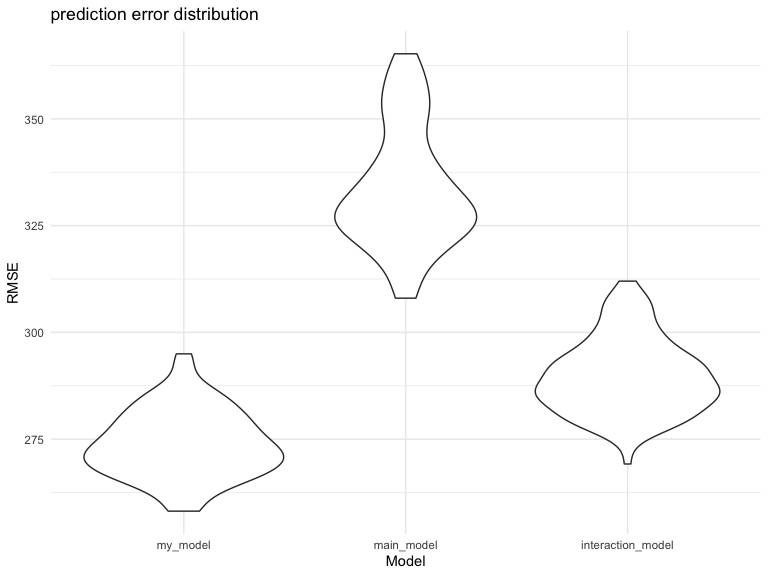
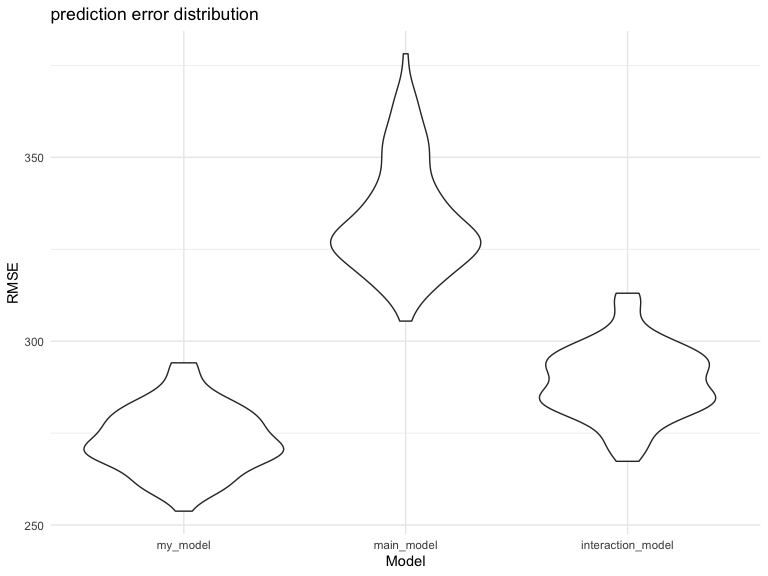
Q2 added estimate distribution

diff --git a/p8105_hw6_xf2226.md b/p8105_hw6_xf2226.md
@@ -182,13 +182,13 @@ rmse(my_model, test_df)
 rmse(model1, test_df)
 ```
 
-    ## [1] 341
+    ## [1] 355
 
 ``` r
 rmse(model2, test_df)
 ```
 
-    ## [1] 295
+    ## [1] 301
 
 The RMSEs suggest that my\_model works the best.
 
@@ -308,3 +308,31 @@ final_bootstrap_results =
 final_bootstrap_results = 
   merge(final_bootstrap_results, bootstrap_results2, by = "strap_number")
 ```
+
+## Plotting the Estimates
+
+``` r
+log_b0_b1_plot = 
+final_bootstrap_results %>% 
+  ggplot(aes(x = log_b0_b1)) + 
+  geom_density() +
+  labs(
+   x = "Log of b0*b1 estimate distribution",
+   y = "Density")
+r_squared_plot =
+final_bootstrap_results %>% 
+  ggplot(aes(x = r.squared)) +
+  geom_density() +
+  labs(
+   x = "R-squared estimate distribution",
+   y = "Density")
+log_b0_b1_plot / r_squared_plot
+```
+
+![](p8105_hw6_xf2226_files/figure-gfm/unnamed-chunk-10-1.png)<!-- -->
+From the plots above, we can see that the distribution of the
+*r̂*<sup>2</sup> estimate and the distribution of the Estimated
+log (*β̂*<sub>0</sub> \* *β̂*<sub>1</sub>) follow roughly a normal
+distribution. The Estimated log (*β̂*<sub>0</sub> \* *β̂*<sub>1</sub>)
+distribution has a center around 2.02.The *r̂*<sup>2</sup> Estimate
+distribution has a center around 0.915.
